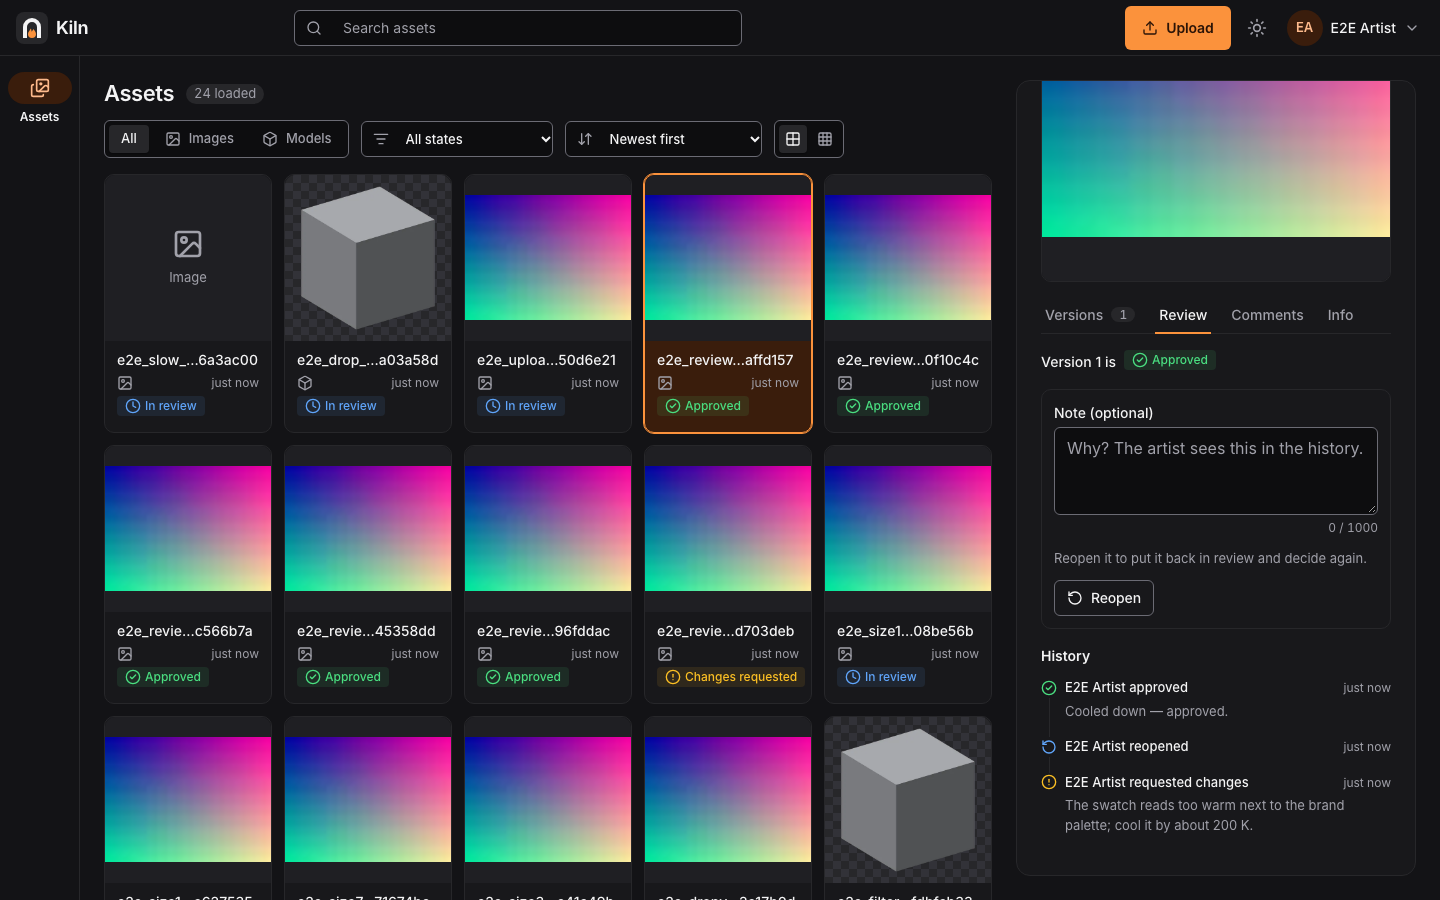
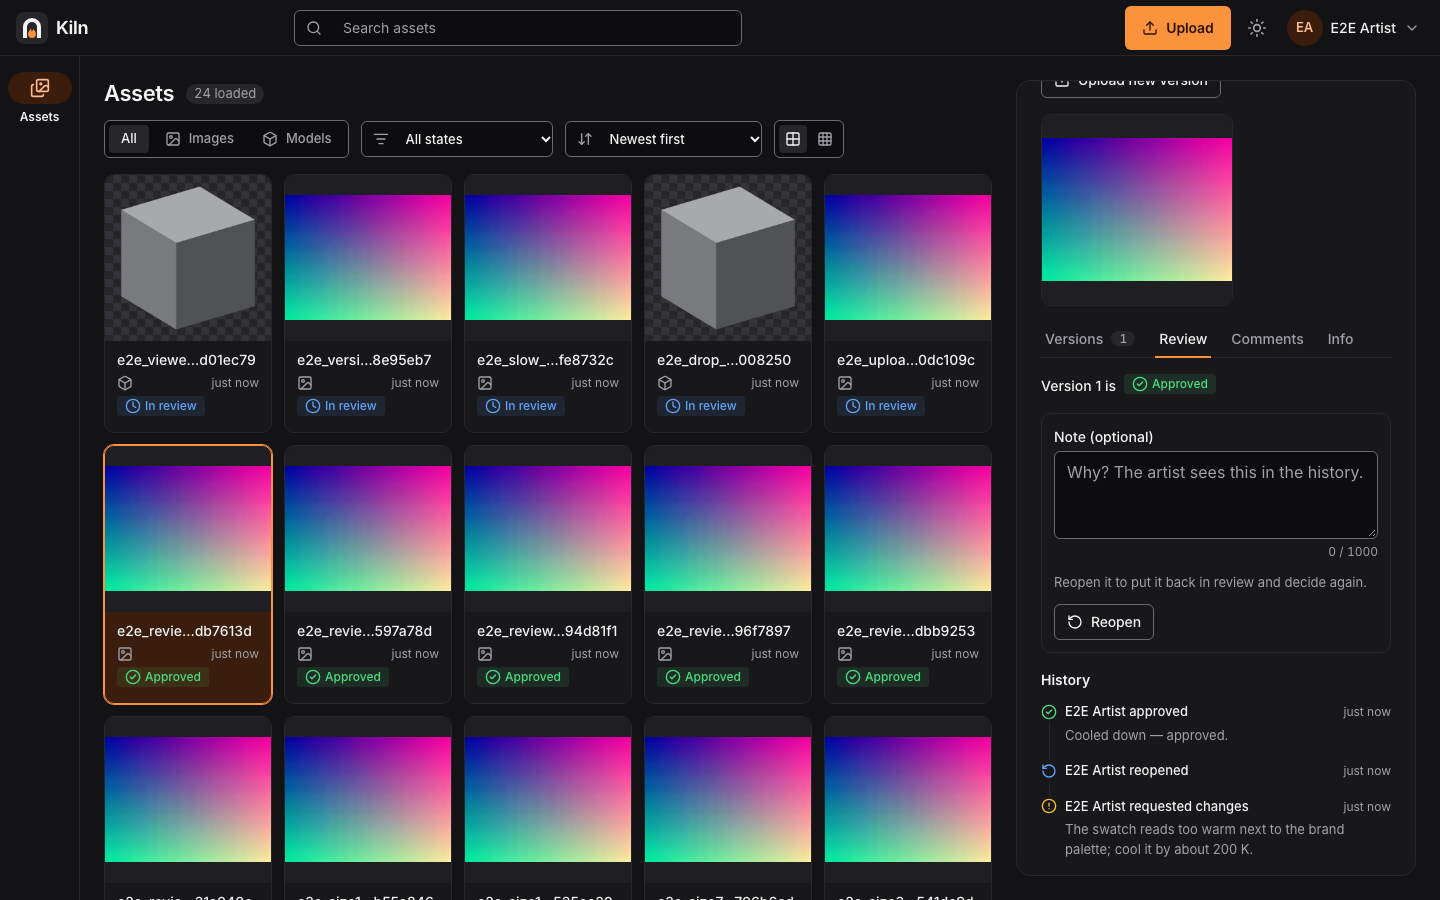
test(e2e): review screenshots at 1280 px and the decision in view on wide screens
The screenshot journey adds 1280 x 800 and checks that Reopen is in the
viewport at 1440 x 900 and 1280 x 800 now that the preview shrinks while
the Review tab is open; every review screenshot is refreshed.

Refs: KILN-11

diff --git a/apps/web/e2e/reviews.spec.ts b/apps/web/e2e/reviews.spec.ts
@@ -166,7 +166,7 @@ for (const theme of ['dark', 'light'] as const) {
   });
 }
 
-test('screenshots of the review tab and the gallery badges at 1440 and 390 px in both themes', async ({
+test('screenshots of the review tab and the gallery badges at 1440, 1280 and 390 px in both themes', async ({
   page,
   request,
 }, testInfo) => {
@@ -190,10 +190,14 @@ test('screenshots of the review tab and the gallery badges at 1440 and 390 px in
     note: 'Cooled down — approved.',
   });
   for (const theme of ['dark', 'light'] as const) {
-    for (const width of [1440, 390]) {
+    for (const width of [1440, 1280, 390]) {
       await page.emulateMedia({ colorScheme: theme, reducedMotion: 'reduce' });
-      await page.setViewportSize({ width, height: width > 600 ? 900 : 844 });
+      await page.setViewportSize({ width, height: { 1440: 900, 1280: 800 }[width] ?? 844 });
       await openReview(page, asset.id, 'Reopen');
+      if (width > 600) {
+        // KILN-11 review: on a wide screen the decision is in view without scrolling the pane.
+        await expect(page.getByRole('button', { name: 'Reopen' })).toBeInViewport();
+      }
       await expect(history(page).getByText('Cooled down — approved.')).toBeVisible();
       // On wide screens the inspector scrolls on its own: bring the history into its view.
       await history(page).scrollIntoViewIfNeeded();

diff --git a/docs/stories/KILN-11.md b/docs/stories/KILN-11.md
@@ -95,7 +95,7 @@ Mutations (each restored, `PYTHONDONTWRITEBYTECODE=1`): the compare-and-set guar
 
 Tests were written right after the code in this commit rather than strictly first; the mutations above show each critical rule fails without its code.
 
-Screenshots looked at (`docs/delivery/KILN-11/screens/`): `kiln-11-review-{1440,390}-{dark,light}.png` (an approved version: the header badge, "Version 1 is Approved", the note field, Reopen with its hint, and the history — approved with a note, reopened, changes requested with a long note that wraps) and `kiln-11-gallery-{1440,390}-{dark,light}.png` (badges on every card, "Needs attention first" with Changes requested first). Found and fixed while looking: at 1440 the inspector scrolls on its own, so a full-page shot cut the history off; the screenshot now scrolls the history into the inspector's view. At 390 the review filter takes its own toolbar row (three rows of options in all): accepted for now, noted under Known gaps.
+Screenshots looked at (`docs/delivery/KILN-11/screens/`; 1280 added and the set refreshed in review round 1, with the compact preview on wide screens): `kiln-11-review-{1440,1280,390}-{dark,light}.png` (an approved version: the header badge, "Version 1 is Approved", the note field, Reopen with its hint, and the history — approved with a note, reopened, changes requested with a long note that wraps) and `kiln-11-gallery-{1440,1280,390}-{dark,light}.png` (badges on every card, "Needs attention first" with Changes requested first). Found and fixed while looking: at 1440 the inspector scrolls on its own, so a full-page shot cut the history off; the screenshot now scrolls the history into the inspector's view. At 390 the review filter takes its own toolbar row (three rows of options in all): accepted for now, noted under Known gaps.
 
 Found by the full e2e run: the KILN-10 test "comments pass axe … in the {dark,light} theme" failed on Pixel 7 with `target-size` on the Comments tab. The fourth tab moved Comments right, under the sticky top bar's Upload button once "Show 3 replies" had scrolled the page, and axe counts a target under a sticky bar as obscured. Nothing is wrong at the top of the page (the debug run measured the tabs at 36 px tall, ≥ 33 px wide, nothing overlapping), so both specs' axe helper now scrolls to the top before analysing, which makes the verdict independent of the last click's scroll.
 
@@ -110,6 +110,10 @@ Gates (this machine, load average 15–25 while other sessions ran): `make lint`
 | Fingerprint mutant (note) and schema-trigger mutant survived                                             | yes                                                                                 | `test_the_same_key_with_another_note_is_refused`; the definitions test compares functions and triggers                                                                                                                          | both mutants now killed                                                                                                                                 |
 | A nested trigger could remove events                                                                     | yes: the temporary-trigger test's removal passed before 0012                        | migration 0012: a nested removal passes only when the version row is gone                                                                                                                                                       | `test_a_delete_from_another_trigger_is_refused_while_the_version_exists`; the cascade test still passes; mutation on 0012 → 1 fail                      |
 | AC10–AC15 traces sat in the AC table                                                                     | yes (a script matched the first `AC9` row)                                          | moved to the QA table                                                                                                                                                                                                           | this file                                                                                                                                               |
+| No 1280 px screenshots (CLAUDE.md)                                                                       | yes                                                                                 | the screenshot journey adds 1280 × 800                                                                                                                                                                                          | `kiln-11-{review,gallery}-1280-{dark,light}.png`                                                                                                        |
+| Reopen and the history below the fold at 1440                                                            | yes                                                                                 | while the Review tab is open on screens ≥ 840 px the preview shrinks to 12rem; the screenshot journey checks Reopen is in the viewport at 1440 × 900 and 1280 × 800                                                             | the screenshots below                                                                                                                                   |
+
+Round 1 gates: `make lint` 0; `make test` 1287 Python (`…/kiln_k11_test`) + 2 CLI + 154 UI + 592 web; `KILN_API_PORT=8030 make e2e` 91 passed, 10 skipped, 0 failed; `make e2e-ui` 4 passed; `make migrate` applied 0012 to the dev database (`/ready` 200 on :8010).
 
 ## Decisions for the reviewer
 
@@ -124,4 +128,4 @@ Gates (this machine, load average 15–25 while other sessions ran): `make lint`
 
 ## Known gaps (follow-ups)
 
-Required reviewers, approval chains and a self-approval rule; notifications; approvals on comments; server-side filtering and sorting by review state (pages are filtered once loaded); one history across all of an asset's versions; realtime (history refetches on focus); at 390 px the gallery's options take three rows; the note's edge limit (10,000 characters) answers `VALIDATION_FAILED` like comment bodies (KILN-45); users who reviewed cannot be deleted (`actor_id` is `NO ACTION`, like comment authors).
+Required reviewers, approval chains and a self-approval rule; notifications; approvals on comments; server-side filtering and sorting by review state (pages are filtered once loaded); one history across all of an asset's versions; realtime (history refetches on focus); at 390 px the gallery's options take three rows, and at 1280 px the card-size control wraps to a second row; the note's edge limit (10,000 characters) answers `VALIDATION_FAILED` like comment bodies (KILN-45); users who reviewed cannot be deleted (`actor_id` is `NO ACTION`, like comment authors).
